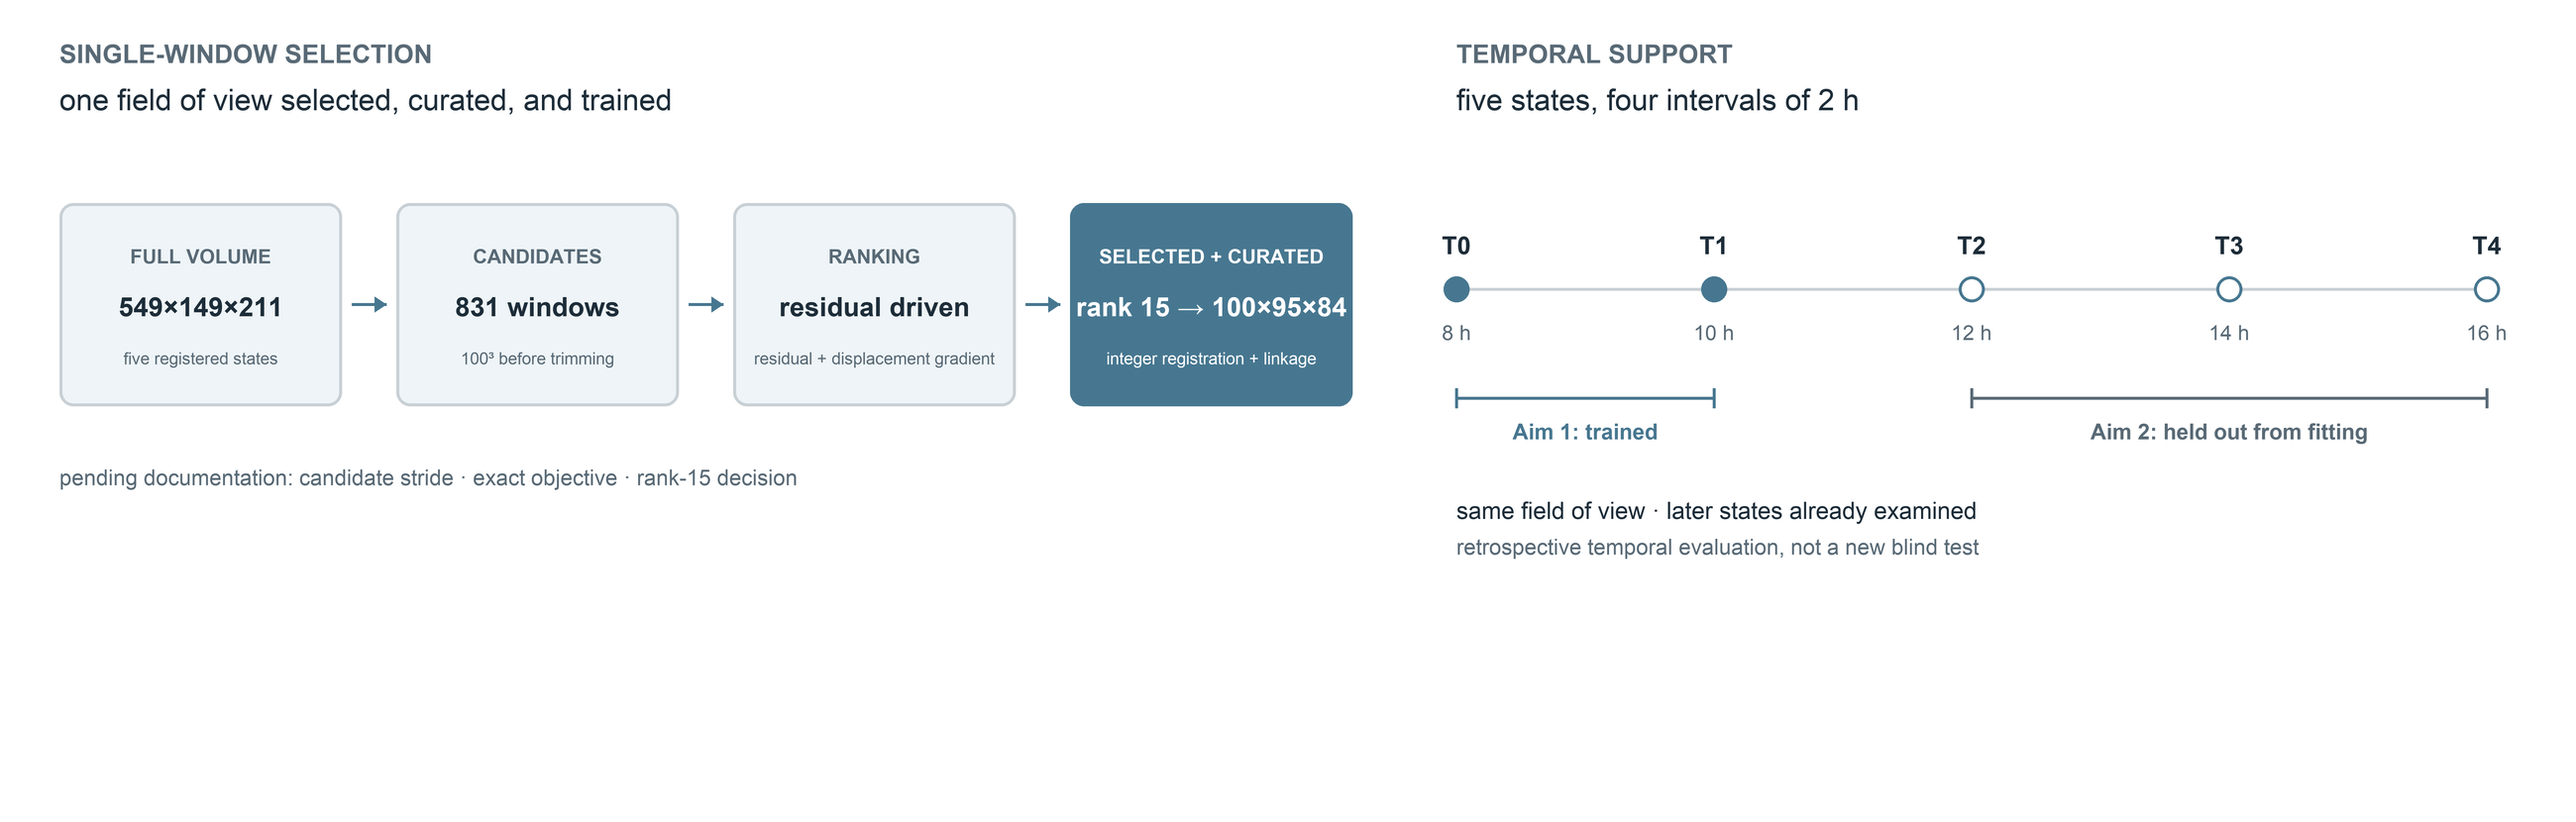
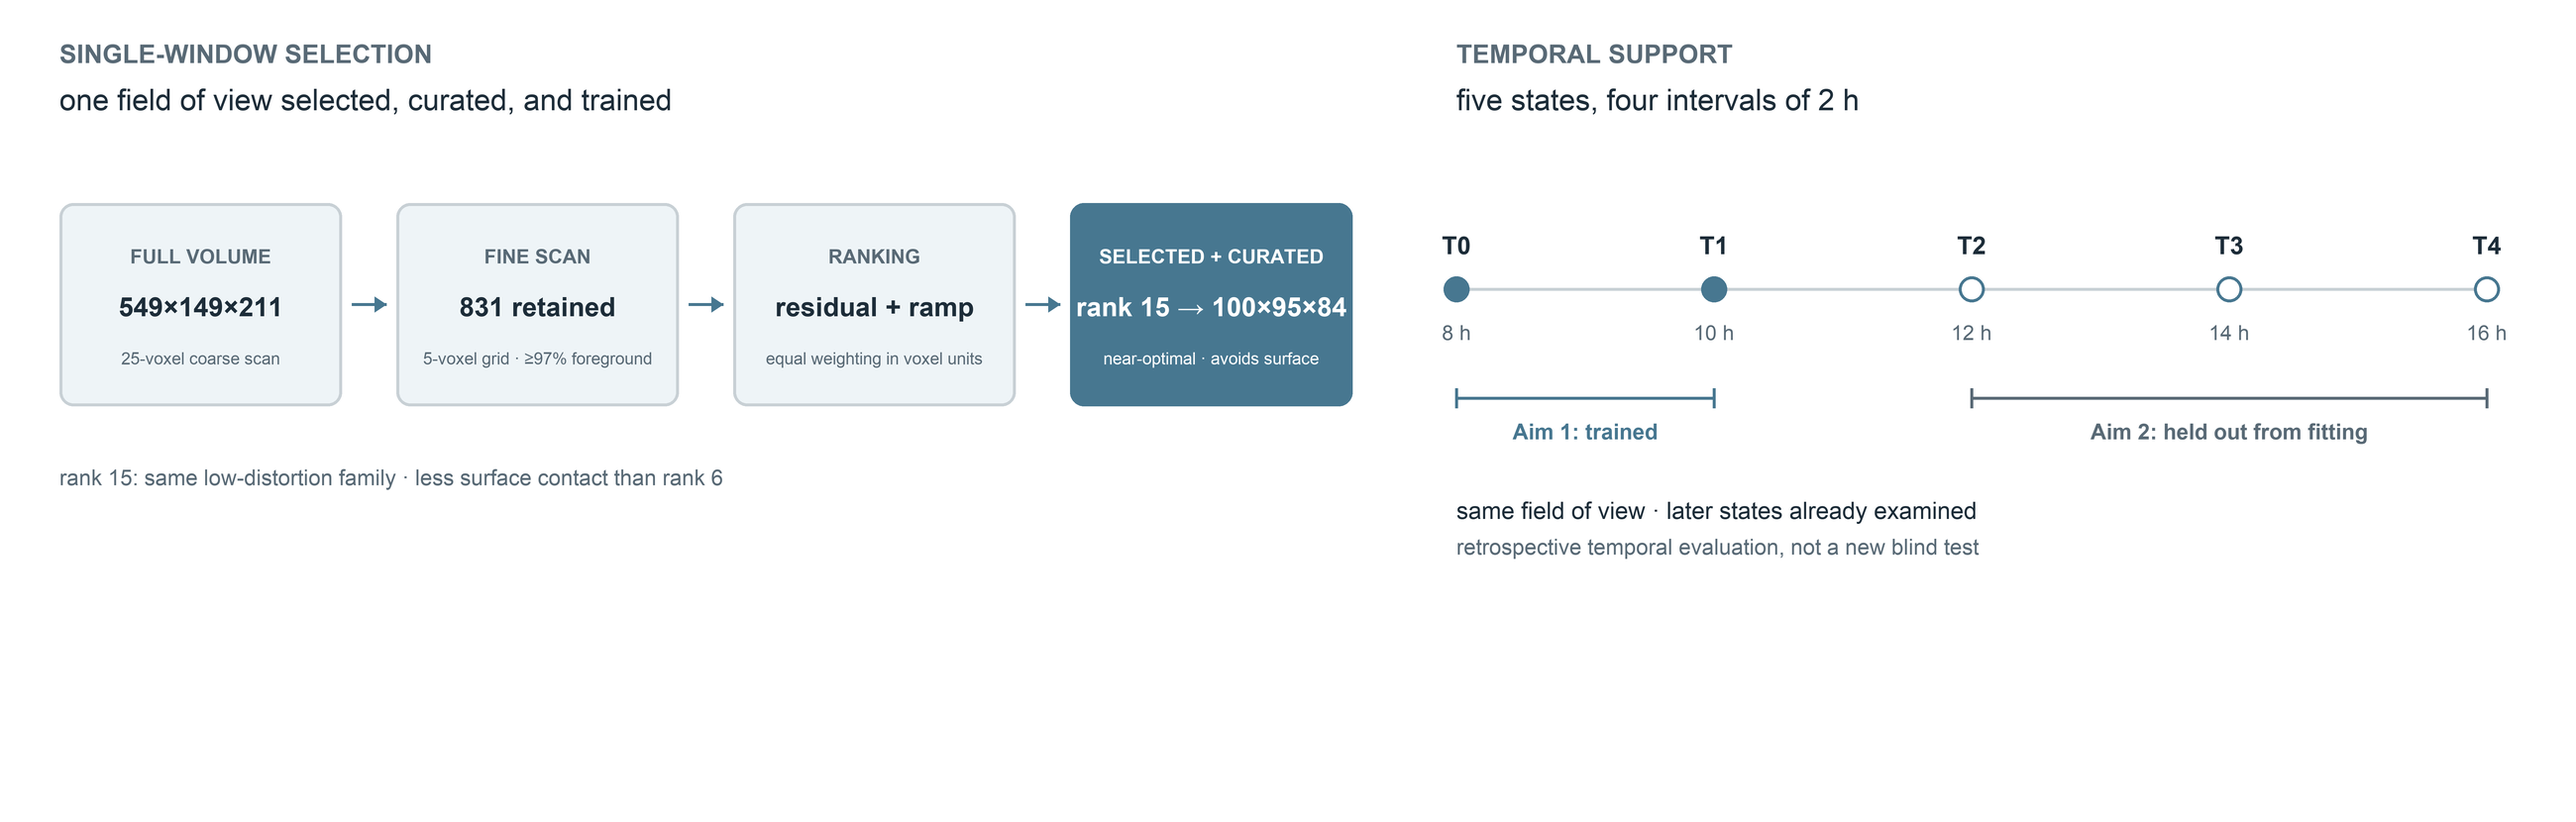
Document window selection and curation gate

diff --git a/proposal_draft.tex b/proposal_draft.tex
@@ -64,7 +64,7 @@ The work described here spans three levels of research maturity, and the text la
 
 \item \textbf{Substantially completed and ongoing experimental work:} Aim 1 single-window selection, label-preserving curation, and direct training; Aim 2 evaluation on T2--T4, which were held out from fitting but have already been examined in the ongoing study.
 
-\item \textbf{Proposed remaining work:} reconstruction of the remaining Aim 1 selection provenance and final curation criteria; completion of the Aim 2 null, readout, and sensitivity comparisons; and transfer of the developed input- and output-side interpretation methods to the experiment-trained model in Aim 3.
+\item \textbf{Proposed remaining work:} completion of the Aim 1 curation-sensitivity reporting; completion of the Aim 2 null, readout, and sensitivity comparisons; and transfer of the developed input- and output-side interpretation methods to the experiment-trained model in Aim 3.
 
 \end{itemize}
 
@@ -592,7 +592,7 @@ The dissertation research is organized by scientific dependency rather than by c
 
 \section{Aim 1: Establish direct experimental learning from a curated 4D window}
 
-\textbf{Status:} SUBSTANTIALLY COMPLETED; FINAL SELECTION-PROVENANCE RECONSTRUCTION AND CURATION SENSITIVITY ANALYSES ARE ONGOING
+\textbf{Status:} SUBSTANTIALLY COMPLETED; FINAL CURATION-SENSITIVITY REPORTING IS ONGOING
 
 \subsection{Question and hypothesis}
 
@@ -606,9 +606,24 @@ Direct experimental supervision changes the teacher from a controlled simulator 
 
 \subsection{Methodology and completed results}
 
-The ongoing study uses five laboratory-DCT grain-ID reconstructions acquired after cumulative holds of 8, 10, 12, 14, and 16 hours. The full reconstruction contains \(549\times149\times211\) voxels. A search over 831 candidate \(100^3\) analysis windows was used to identify one field of view for the experimental-surrogate study. The candidate-window stride and boundary-enumeration rule are not specified in the current source text. \texttt{[NEEDS CANDIDATE-WINDOW STRIDE AND ENUMERATION RULE]}
+The ongoing study uses five laboratory-DCT grain-ID reconstructions acquired after cumulative holds of 8, 10, 12, 14, and 16 hours. The full reconstruction contains \(549\times149\times211\) voxels. Window selection uses only the tracked T0--T1 pair and proceeds in two stages. A \(100^3\) window is first scanned over the full admissible corner domain at a 25-voxel stride: \(x=0,25,\ldots,425\), \(y\in\{0,25\}\), and \(z=0,25,\ldots,100\), with the historical reference corner \((449,24,34)\) added explicitly. Of these 181 placements, 52 contain at least 97\% foreground in the T0--T1 union mask. A 5-voxel refinement is then performed over \(x=280,285,\ldots,380\), \(y=15,20,\ldots,35\), and \(z=40,45,\ldots,90\), again including the historical corner. This stage enumerates 1,156 placements and retains 831 after the same foreground filter.
 
-Window selection is based on post-registration residual and displacement-gradient amplitude rather than raw inter-frame agreement. The selected window ranks 15th among the 831 candidates under that objective, whereas the window favored by raw agreement ranks last under the residual-driven criterion. The current source text does not specify the exact scalar objective, its component weighting, or the decision that selected rank 15 rather than a higher-ranked candidate. \texttt{[NEEDS EXACT SELECTION OBJECTIVE AND WEIGHTING]} \texttt{[NEEDS RATIONALE FOR SELECTING RANK 15]}
+For each retained corner \(\mathbf{c}\), the local T0--T1 displacement is estimated by axiswise roll agreement with parabolic sub-voxel refinement. After applying its rounded integer displacement, the fractional residual \(\mathbf{r}(\mathbf{c})\) is remeasured on the staggered pair. The six off-diagonal components of the local displacement-gradient tensor \(\mathbf{G}(\mathbf{c})\) are estimated by linear fits across five slabs. Candidates are ranked in ascending order by
+
+\begin{equation}
+s(\mathbf{c})
+=
+\left\|\mathbf{r}(\mathbf{c})\right\|_{\infty}
++
+\frac{L-1}{2}
+\max_i\sum_{j\ne i}\left|G_{ij}(\mathbf{c})\right|,
+\qquad L=100.
+\label{eq:window-selection-score}
+\end{equation}
+
+The two terms are expressed in voxels and enter with equal coefficient: the first is the largest post-stagger residual, and the second is the largest estimated half-window displacement ramp. Post-stagger agreement is retained as a diagnostic but does not enter the implemented ordering. The historical raw-agreement window ranks 831st under Equation~\eqref{eq:window-selection-score}, showing that raw agreement is insensitive to the residual and shear targeted by the search.
+
+The score identifies a low-distortion family rather than a unique isolated optimum. The representative corner \((355,20,90)\) ranks sixth with \(s=0.823\), but its T0 crop contacts the specimen surface and contains approximately 0.96\% background. The production corner \((355,25,85)\) lies in the same quiet region, ranks 15th with \(s=0.855\), and reduces T0/T1 background to approximately 0.05\%/0.09\%. It was therefore selected by a documented secondary screen---near-optimal residual-driven score without the visible surface contact of the higher-ranked representative---rather than presented as the unconstrained score minimum. Subsequent three-initialization training gave the two corners comparable drift ranges, supporting the stability of this within-family choice.
 
 \begin{figure}[htbp]
 \centering
@@ -675,11 +690,11 @@ The remaining Aim 1 analyses complete the reporting controls in the matrix. Mode
 
 \subsection{Evaluation criteria, expected outcomes, and contingencies}
 
-Aim 1 succeeds if the selected trajectory has auditable selection provenance, axis-resolved registration residuals, adequate linkage yield, and a curated rollout whose directional drift remains well below the uncurated control across model replicates. Final quantitative acceptance criteria for the curation audit remain \texttt{[NEEDS FINAL CURATION ACCEPTANCE CRITERIA]}. Sensitivity conclusions must be reported across model replicates and coherent units rather than pooled voxel patches.
+Aim 1 separates its preprocessing gate from its post-training diagnostics. The quantitative registration gate is mean T0--T1 label displacement no larger than 0.05 voxel on each axis; the curated pair satisfies this gate. Unmatched boundary fraction, linkage yield, retained volume, and comparison with the uncurated labels are reported to expose the remaining data limitations, but the existing analysis record does not assign them additional pass/fail thresholds. Directional rollout drift across the three trained models and grain-count monotonicity are post hoc diagnostics, not curation acceptance gates, because they depend on trained-model behavior or later measured states. Sensitivity conclusions must be reported across model replicates and coherent units rather than pooled voxel patches.
 
 The achieved outcome is a curated single-window trajectory and a directly trained local operator whose label and field integrity are documented. Its claim boundary is the selected field of view and the T0--T1 transition; Aim 1 does not establish spatial reproducibility elsewhere in the reconstruction.
 
-The principal unresolved issue is selection provenance. If the exact objective or the reason for selecting rank 15 cannot be reconstructed from the search record, the choice will be reported as a limitation rather than presented as a reproducible optimum. If linkage or registration fails an eventual acceptance criterion, the affected grain-level or field-level claim will be withheld while the remaining integrity diagnostics are retained.
+The completed search record makes the selection reproducible while preserving its claim boundary: rank 15 is a near-optimal member of a low-distortion family chosen after a separate surface-contact screen, not the unconstrained minimizer of a single objective. If a future dataset fails the 0.05-voxel registration gate, direct-learning claims based on that pair will be withheld. If linkage is inadequate, grain-level claims will be withheld even when identity-agnostic field and population diagnostics remain reportable.
 
 
 \section{Aim 2: Evaluate experiment-trained rollout on held-out experimental states}
@@ -924,7 +939,7 @@ The dependency chain is what makes an unfavorable result usable. Each aim inheri
 \toprule
 \textbf{Evidence gate} & \textbf{Unfavorable outcome} & \textbf{Resulting claim ceiling} \\
 \midrule
-Aim 1 field integrity & Selection provenance is incomplete, or registration, linkage, or drift fails the final curation audit & Report the affected limitation and withhold the corresponding field- or grain-level claim \\
+Aim 1 field integrity & Registration exceeds 0.05 voxel on any axis, or linkage and post-training diagnostics expose a claim-specific limitation & Withhold direct-learning or grain-level claims affected by that limitation while retaining reportable identity-agnostic diagnostics \\
 Aim 2 temporal evaluation & A metric family is unsupported, uninformative, or does not improve over its simple comparator & Retain the result but exclude that output from experimental physical interpretation \\
 Aim 3 interpretation & Model interpretation is stable but unique physical attribution is unsupported & Stop at Level 3 model interpretation rather than escalating to a physical-attribution or mechanism claim \\
 \bottomrule
@@ -968,7 +983,7 @@ For experimental materials science, the work provides a way to use sparse 4D gra
 \section{Research timeline and scope control}
 
 The schedule is planned backward from the May 2027 completion target. Research and writing overlap so that the dissertation is not postponed until all analysis is complete.
-To protect the core scope, the schedule prioritizes reconstruction of the Aim 1 selection record and completion of its curation audit, finishes the Aim 2 null and readout comparisons, and bases final Aim 3 claims only on supported outputs. Additional experimental windows, external datasets, new materials, a direct MF rollout initialized from an experimental state, broad architecture sweeps, and formal probabilistic calibration remain outside the core plan.
+To protect the core scope, the schedule prioritizes completion of the Aim 1 curation-sensitivity reporting, finishes the Aim 2 null and readout comparisons, and bases final Aim 3 claims only on supported outputs. Additional experimental windows, external datasets, new materials, a direct MF rollout initialized from an experimental state, broad architecture sweeps, and formal probabilistic calibration remain outside the core plan.
 
 One further analysis is deferred to the same category. The simulation and experimental fidelity profiles are kept separate throughout this proposal, and no nominally shared metric is assumed to mean the same thing in both. Auditing that assumption, by applying experimental observation operators such as resolved-grain cutoffs, connectivity rules, and identity censoring to simulation trajectories and asking which metrics survive as commensurate, is a coherent study in its own right. It is not required for the Aim 2 temporal evaluation and will be attempted only if the three aims finish with time remaining.
 
@@ -986,7 +1001,7 @@ One further analysis is deferred to the same category. The simulation and experi
 
 \midrule
 
-August-September 2026 & Reconstruct the candidate-window stride, scoring objective, and rank-15 decision; complete the Aim 1 curation audit & Draft introduction, experimental foundation, and Aim 1 chapter & Is the selected-window provenance complete and defensible? \\
+August-September 2026 & Complete Aim 1 curation-sensitivity reporting and document the recovered two-stage window-selection record & Draft introduction, experimental foundation, and Aim 1 chapter & Does the final report keep the registration gate distinct from post hoc diagnostics? \\
 
 October-November 2026 & Complete Aim 1 model-replicate and curation sensitivities; calculate Aim 2 persistence, majority-class, distributional, and readout comparisons & Finalize Aim 1 and draft the Aim 2 evaluation chapter & Which T2--T4 outputs add information beyond simple comparators? \\
 
@@ -1057,10 +1072,6 @@ The dissertation documents how one experimental field of view is selected, curat
 Several decisions remain open because the current source text or analysis record does not yet provide the information needed to resolve them. Committee guidance is welcome on each.
 
 \begin{enumerate}
-
-\item \textbf{Window-selection provenance.} What candidate stride and boundary-enumeration rule produced the 831 placements, what exact objective combined post-registration residual and displacement-gradient amplitude, and why was rank 15 selected rather than a higher-ranked candidate?
-
-\item \textbf{Aim 1 acceptance criteria.} What quantitative registration, linkage, and directional-drift criteria should define an acceptable curated trajectory for the final audit?
 
 \item \textbf{Aim 2 reporting criteria.} What retrospective thresholds should distinguish supported, mixed, unsupported, and uninformative evidence, and what effective-time interpolation sensitivity is acceptable?
 

diff --git a/figures/make_aim1_support.py b/figures/make_aim1_support.py
@@ -5,9 +5,9 @@ Every number is taken from the experimental manuscript, Section 2:
   curated analysis window trimmed in place to 100 x 95 x 84 voxels;
   five states T0-T4 at cumulative holds of 8, 10, 12, 14, 16 h (uniform 2 h).
 
-The left panel documents the actual one-window workflow rather than a
-multi-window packing bound. The right panel distinguishes held out from fitting
-from an unexamined confirmatory test.
+The left panel documents the actual two-stage one-window workflow rather than
+a multi-window packing bound. The right panel distinguishes held out from
+fitting from an unexamined confirmatory test.
 
 Categories are separated by fill, outline style, and label -- never by hue
 alone -- so the figure survives colour-vision deficiency, greyscale printing,
@@ -54,10 +54,10 @@ def main():
            font=f(30), fill=INK)
 
     steps = (
-        ("FULL VOLUME", f"{NX}×{NY}×{NZ}", "five registered states"),
-        ("CANDIDATES", "831 windows", "100³ before trimming"),
-        ("RANKING", "residual driven", "residual + displacement gradient"),
-        ("SELECTED + CURATED", "rank 15 → 100×95×84", "integer registration + linkage"),
+        ("FULL VOLUME", f"{NX}×{NY}×{NZ}", "25-voxel coarse scan"),
+        ("FINE SCAN", "831 retained", "5-voxel grid · ≥97% foreground"),
+        ("RANKING", "residual + ramp", "equal weighting in voxel units"),
+        ("SELECTED + CURATED", "rank 15 → 100×95×84", "near-optimal · avoids surface"),
     )
     x0, y0 = 60 * S, 205 * S
     bw, bh, gap = 285 * S, 205 * S, 55 * S
@@ -82,7 +82,7 @@ def main():
                        (bx - 12 * S, ay + 8 * S)], fill=BLUE)
 
     d.text((60 * S, 470 * S),
-           "pending documentation: candidate stride · exact objective · rank-15 decision",
+           "rank 15: same low-distortion family · less surface contact than rank 6",
            font=f(22), fill=MUTED)
 
     # ---------------------------------------------------------- panel B
